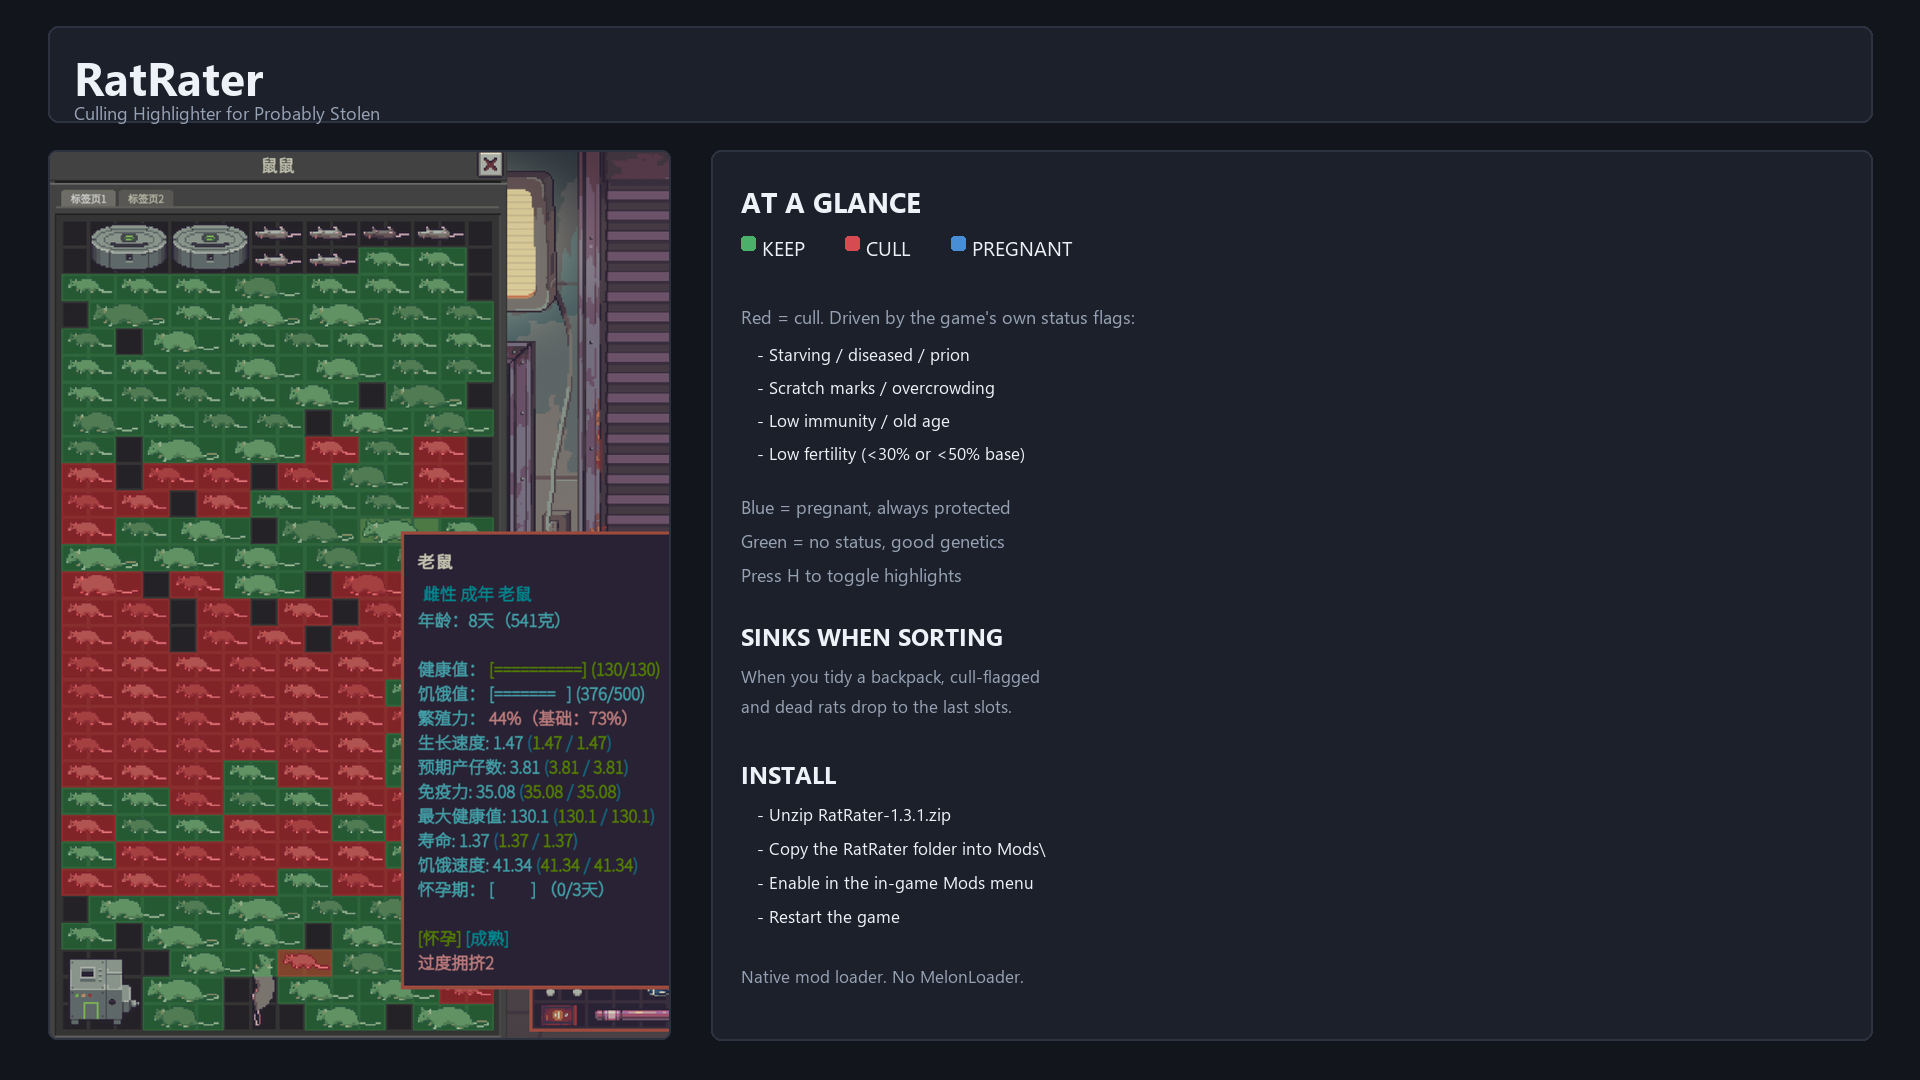
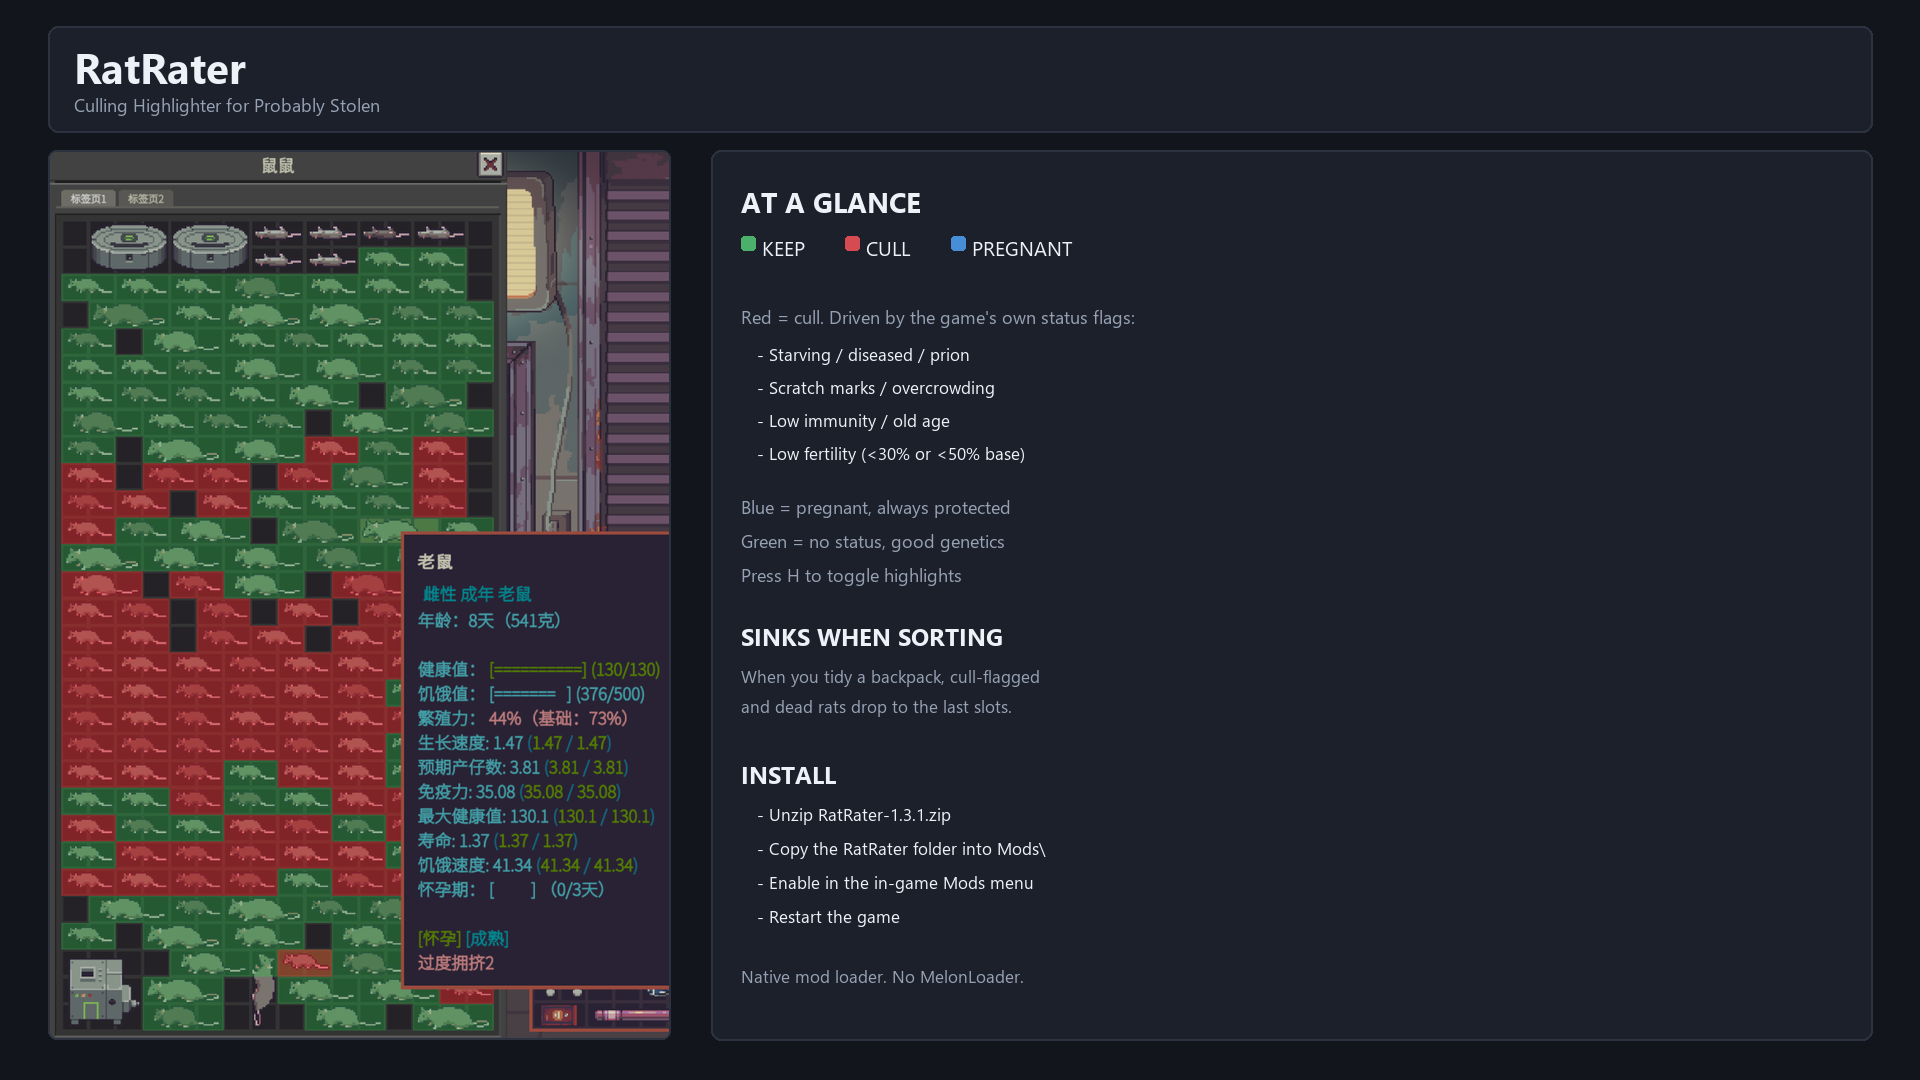
修复怀孕母鼠不显示蓝色；标题条布局上移
- 怀孕 tag 是纯开关（数值可能为 0），改为 tag 存在即判怀孕，并加怀孕进度双保险
- gallery 中英两版标题条文字上移，副标题与面板底边留足空隙
- 版本保持 1.3.1 覆盖打包，manifest 与文档描述不变

Changed region(s): [[0.0312, 0.0306, 0.2188, 0.1222]]

diff --git a/RatRater/src/Scorer.cs b/RatRater/src/Scorer.cs
@@ -71,7 +71,10 @@ internal static class Scorer
         string sex = GameBridge.GetStringTag(item, HusbandryHelper.ANIMAL_SEXE_TAG);
         s.Female = sex != null && (sex == "female" || sex == "1" || sex.ToLower().Contains("fem"));
 
-        s.Pregnant = HasPositiveFlag(item, HusbandryHelper.ANIMAL_PREGNANT_TAG);
+        // 怀孕：tag 是纯开关（数值可能为 0），存在即算怀孕；再查怀孕进度双保险。
+        s.Pregnant = item.IsTag(HusbandryHelper.ANIMAL_PREGNANT_TAG) ||
+                     GameBridge.GetFloatTag(item, HusbandryHelper.ANIMAL_PREGNANT_PROGRESS_TAG) > 0f;
+
         s.Age = GameBridge.GetFloatTag(item, HusbandryHelper.ANIMAL_AGE_TAG);
         float longevity = GameBridge.GetFloatTag(item, HusbandryHelper.ANIMAL_LONGEVITY_TAG);
         if (longevity <= 0f) longevity = 1f;

diff --git a/RatRater/store-assets/compose.py b/RatRater/store-assets/compose.py
@@ -157,9 +157,9 @@ def compose_gallery(cap1, lang, t, outname):
     im = Image.new("RGB", (W, H), BG)
     d = ImageDraw.Draw(im)
 
-    d.rounded_rectangle((M, 26, RIGHT, 122), radius=10, fill=PANEL, outline=BORDER, width=2)
-    d.text((M + 26, 46), "RatRater", font=font(46, True), fill=WHITE)
-    text_fit(d, M + 26, 100, t["top_sub"], 18, RIGHT - M - 52, MUTED, cn=cn)
+    d.rounded_rectangle((M, 26, RIGHT, 132), radius=10, fill=PANEL, outline=BORDER, width=2)
+    d.text((M + 26, 38), "RatRater", font=font(42, True), fill=WHITE)
+    text_fit(d, M + 26, 92, t["top_sub"], 18, RIGHT - M - 52, MUTED, cn=cn)
 
     top, bottom = 150, H - 40
     avail_h = bottom - top
